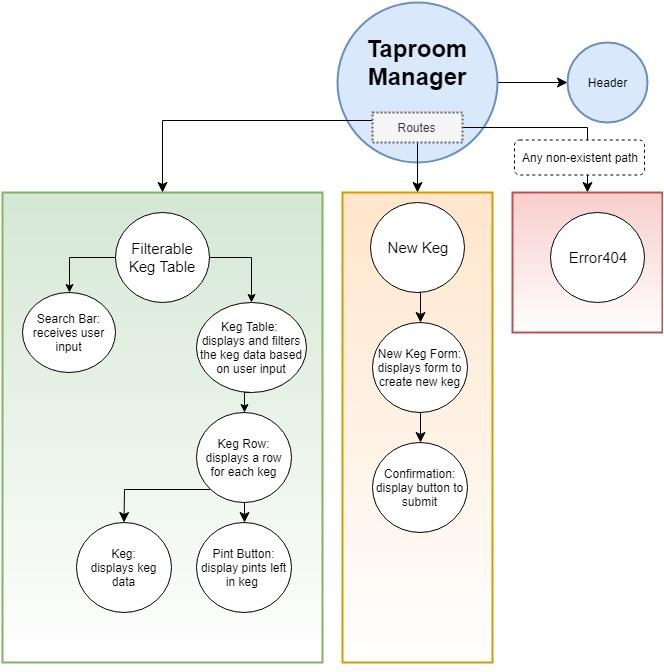
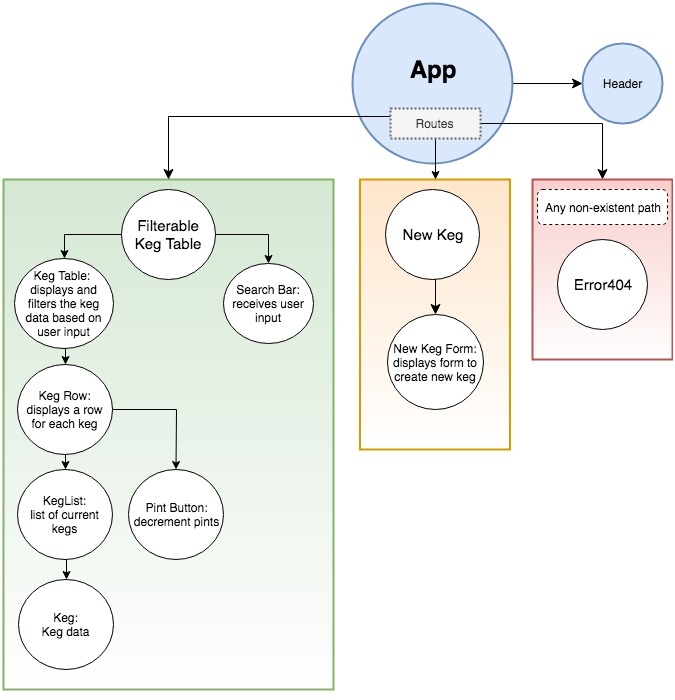
add keglist to components

Changed region(s): [[0.0, 0.0, 1.0, 1.0], [0.3614, 0.75, 0.3916, 0.7812], [0.241, 0.5938, 0.2711, 0.625]]

diff --git a/src/components/UserInputBox.jsx b/src/components/UserInputBox.jsx
@@ -3,7 +3,11 @@ import React from 'react';
 function UserInputBox() {
   return (
     <div>
-      <p>User input box</p>
+      <form>
+        <input type='text'
+          placeholder='Search Taproom'/>
+        <button type='submit'>Search!</button>
+      </form>
     </div>
   );
 }

diff --git a/src/components/App.jsx b/src/components/App.jsx
@@ -10,6 +10,7 @@ function App() {
   var appBackground = {
     backgroundColor: '#95A3B3',
   };
+  
   return (
     <div style={appBackground}>
       <Header />

diff --git a/src/components/FilterableKegTable.jsx b/src/components/FilterableKegTable.jsx
@@ -7,7 +7,9 @@ function FilterableKegTable() {
   return (
     <div>
       <br></br>
+      <UserInputBox />
       <KegTable />
+      
     </div>
   );
 }

diff --git a/README.md b/README.md
@@ -54,6 +54,10 @@ Runs the app in the development mode.<br>
 * ESLint
 
 
+## Bugs
+* new keg form does not clear out after submit
+
+
 ## In Progress
 - create new keg
 - tracking keg's pints
